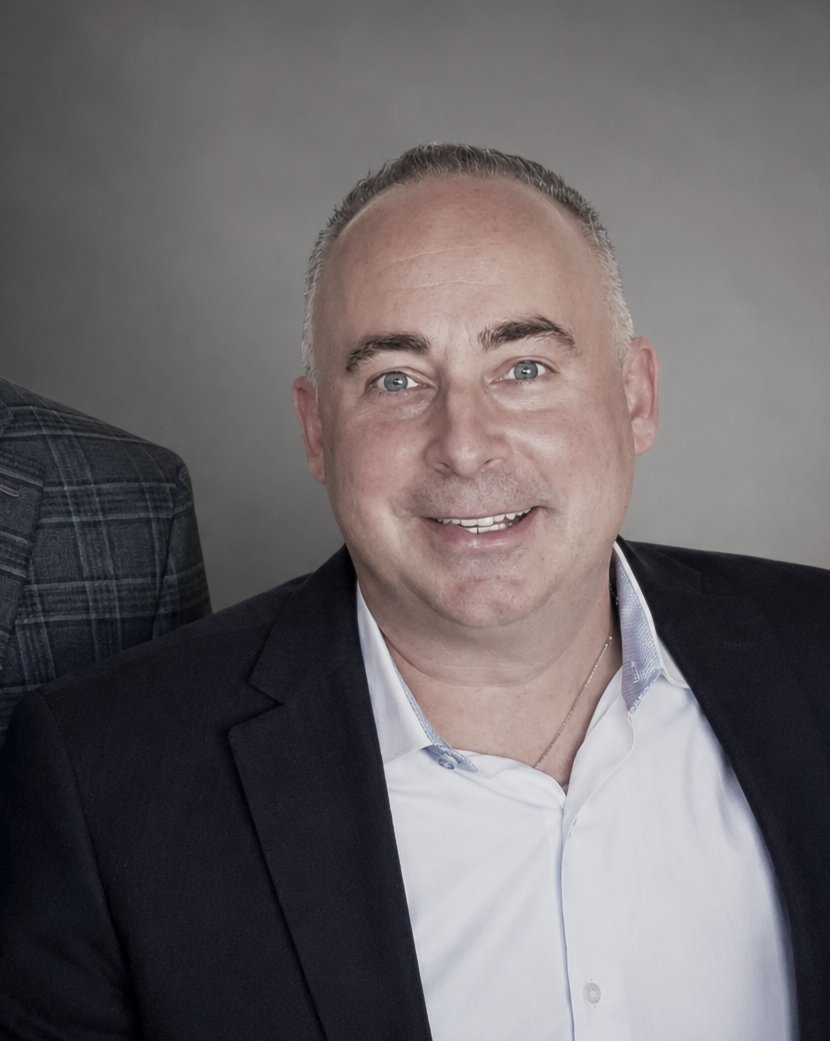
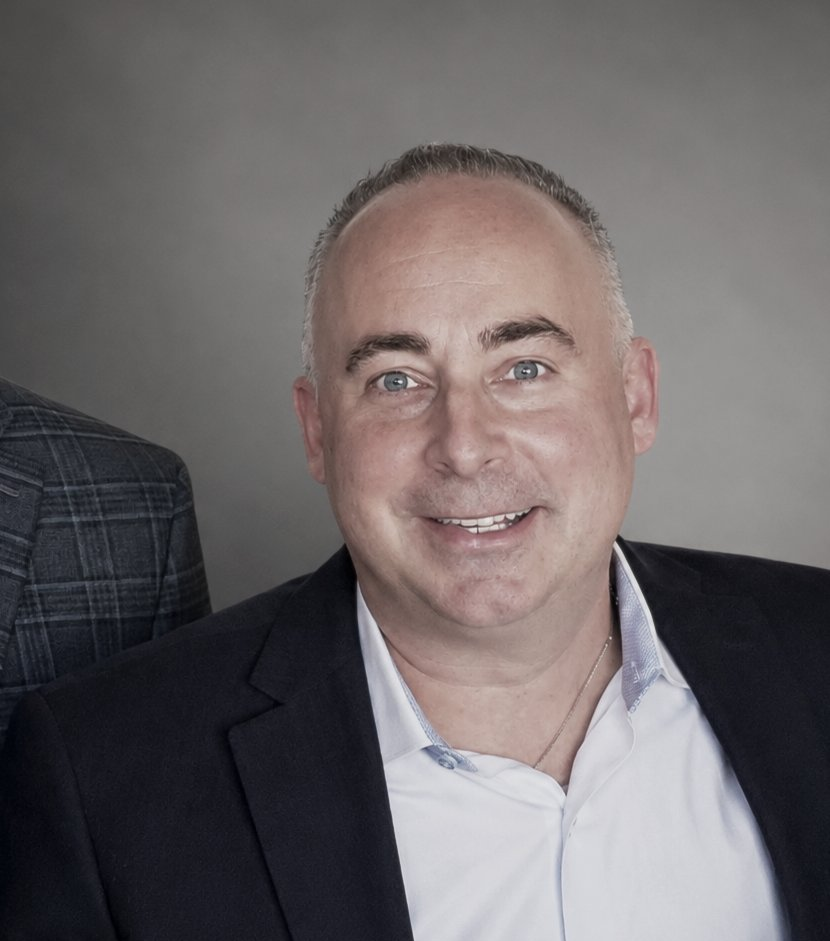
About: crop portrait 100px from bottom, reduce container height 100px (340x430 desktop)

diff --git a/app/about/page.tsx b/app/about/page.tsx
@@ -73,11 +73,11 @@ export default function Page() {
           {/* Body copy + portrait, side-by-side on desktop; stacks on mobile.
               On desktop the columns are vertically centered relative to each
               other (items-center). The portrait container is sized smaller
-              (340×530 desktop) with an aspect ratio that's narrower than the
-              source — so object-cover + object-right-top anchors the image
-              to the right edge and crops the left side, hiding the
-              neighboring shoulder for a cleaner, more focused headshot.
-              Smaller container also reduces vertical footprint. */}
+              (340×430 desktop) and the source image has been cropped 100px
+              from the bottom — so the framing is tight on Shawn's face and
+              upper torso. object-right-top anchors to the right edge and
+              crops the left side, hiding the neighboring shoulder for a
+              clean, focused headshot. */}
           <div className="mt-10 md:mt-14 grid grid-cols-1 lg:grid-cols-12 gap-10 lg:gap-14 lg:items-center">
             <div className="lg:col-span-7 order-2 lg:order-1 flex flex-col justify-center">
               <p className="text-lg md:text-xl text-text-secondary leading-relaxed">
@@ -116,7 +116,7 @@ export default function Page() {
             </div>
 
             <div className="lg:col-span-5 order-1 lg:order-2 flex justify-center lg:justify-start">
-              <div className="relative rounded-2xl overflow-hidden border border-border-default shadow-xl capizzi-rim-card w-full max-w-[260px] lg:max-w-[340px] aspect-[340/530]">
+              <div className="relative rounded-2xl overflow-hidden border border-border-default shadow-xl capizzi-rim-card w-full max-w-[260px] lg:max-w-[340px] aspect-[340/430]">
                 <Image
                   src="/images/brand/shawn_m_capizzi_2026.png"
                   alt="Shawn Capizzi"
